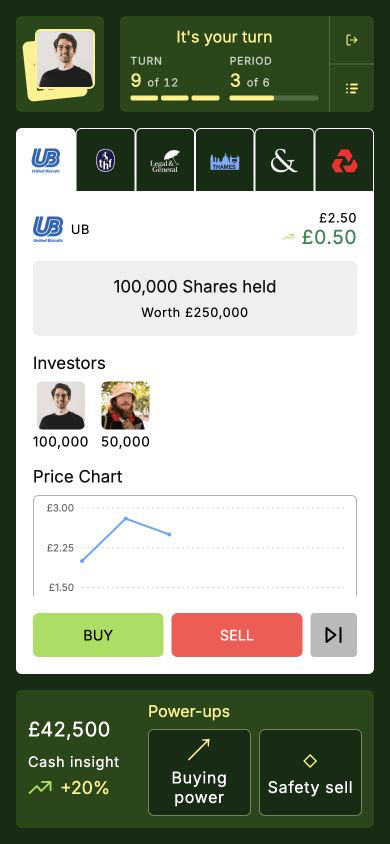
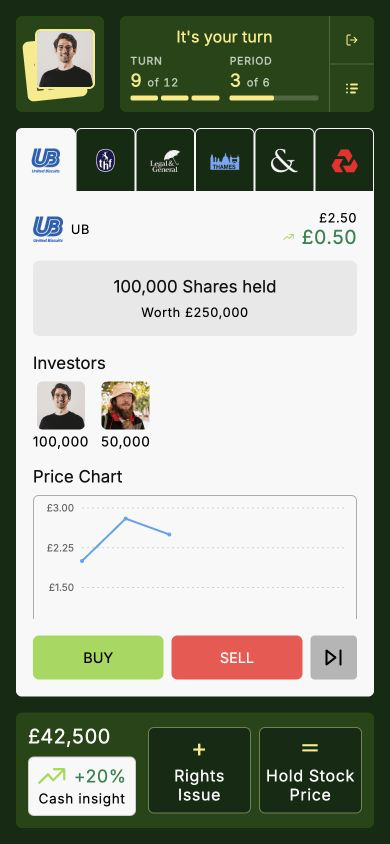
Style cash as a private insight and reference documented special cards

Changed region(s): [[0.0308, 0.7085, 0.9846, 0.9858]]

diff --git a/src/player-dock.css b/src/player-dock.css
@@ -13,11 +13,10 @@
 }
 #player-dock > * { min-width: 0; }
 #player-dock .dock-balance { display: block; margin-bottom: 0.5rem; font-size: 1.5rem; font-weight: 500; line-height: 1.2; font-variant-numeric: tabular-nums; }
-.dock-cash-insight { display: inline-flex; flex-direction: column; gap: 0.25rem; }
-#player-dock .dock-cash-insight > span { font-size: 1rem; }
-.dock-cash-insight strong { display: flex; align-items: center; gap: 0.5rem; font-size: 1.25rem; font-weight: 500; color: #fff284; }
-.dock-cash-insight img { width: 1.5rem; height: 1rem; object-fit: contain; }
-#player-dock .dock-powers h2 { margin: 0 0 0.5rem; font-size: 1.2rem; font-weight: 500; color: #fff284; }
+.dock-cash-insight { padding: 0.5rem; gap: 0.25rem; max-width: 9rem; }
+#player-dock .dock-cash-insight .total-insight { font-size: 1.2rem; line-height: 1.2; }
+#player-dock .dock-cash-insight .total-insight span { font-size: inherit; }
+#player-dock .dock-cash-insight p { font-size: 1rem; margin: 0; }
 .dock-power-cards { display: grid; grid-template-columns: repeat(2, minmax(0, 1fr)); gap: 1rem; }
 .dock-power-card { display: flex; align-items: center; gap: 1rem; min-height: 4.5rem; padding: 0.75rem 1rem; border: 1px solid #70845b; border-radius: 0.375rem; background: #0f2c12; color: white; text-align: left; }
 .dock-power-card:hover { background: #304f24; border-color: #fff284; }
@@ -35,9 +34,8 @@
 @media (max-width: 575.98px) {
     #player-dock { grid-template-columns: 6.75rem minmax(0, 1fr); gap: 0.75rem; padding: 0.75rem !important; padding-bottom: max(0.75rem, env(safe-area-inset-bottom)) !important; }
     #player-dock .dock-balance { font-size: 1.25rem; }
-    #player-dock .dock-cash-insight > span { font-size: 0.9rem; }
-    .dock-cash-insight strong { font-size: 1.1rem; }
-    #player-dock .dock-powers h2 { font-size: 1rem; }
+    #player-dock .dock-cash-insight p { font-size: 0.85rem; }
+    #player-dock .dock-cash-insight .total-insight { font-size: 1.1rem; }
     .dock-power-cards { gap: 0.5rem; }
     .dock-power-card { flex-direction: column; justify-content: center; gap: 0.4rem; padding: 0.5rem 0.35rem; min-height: 5rem; text-align: center; }
     #player-dock .dock-power-icon { font-size: 1.5rem; }
@@ -47,9 +45,7 @@
 @media (max-height: 500px) {
     #player-dock { padding: 0.5rem 0.75rem !important; }
     #player-dock .dock-balance { margin-bottom: 0.25rem; }
-    .dock-cash-insight { flex-direction: row; align-items: center; gap: 0.5rem; }
-    #player-dock .dock-cash-insight > span { font-size: 0.85rem; }
-    .dock-cash-insight strong { font-size: 1rem; }
+    .dock-cash-insight { padding: 0.35rem; }
     .dock-power-card { min-height: 3rem; padding-block: 0.4rem; }
 }
 /* Details scroll within the middle panel while the dock remains in view. */

diff --git a/src/PlayerDock.tsx b/src/PlayerDock.tsx
@@ -2,9 +2,10 @@ import { Modal, money } from "./shared";
 import type { Board } from "./types";
 import "./player-dock.css";
 
+// Names and effects follow BOARD_GAME_DIFFERENCES_CURRENT.md.
 const powerUps = [
-    { name: "Buying power", kind: "buy", icon: "↗", effect: "+10% shares", description: "Get 10% extra shares on your next purchase. A little more stock for the same cash.", timing: "Use before buying" },
-    { name: "Safety sell", kind: "sell", icon: "◇", effect: "Price protection", description: "Sell at the period’s opening price if the current price is lower. Protect one sale from a falling market.", timing: "Use before selling" },
+    { name: "Rights Issue", kind: "rights", icon: "+", effect: "50% extra shares", description: "Choose a company. All holders receive 50% extra shares, rounded down.", timing: "Applies to all holders of the chosen company" },
+    { name: "Hold Stock Price", kind: "hold", icon: "＝", effect: "Freeze a company’s price", description: "Choose one company to suspend. Its share price stays unchanged when this period settles.", timing: "Choose a company before period-end settlement" },
 ];
 
 /** POC only: power-ups and cash insights are examples, never trading mutations. */
@@ -17,17 +18,15 @@ export function PlayerDock({ board }: { board: Board })
                     £
                     {money(board.player.cash)}
                 </strong>
-                <div className="dock-cash-insight">
-                    <span>Cash insight</span>
-                    <strong>
-                        <img src="/static/imgs/icons/stock_up.svg" alt="Cash rising" />
-                        {" "}
-                        +20%
-                    </strong>
+                <div className="dock-cash-insight card bg-white text-black text-center">
+                    <div className="total-insight text-success d-flex justify-content-center align-items-center">
+                        <img className="pe-2" height={16} src="/static/imgs/icons/stock_up.svg" alt="Cash rising" />
+                        <span>+20%</span>
+                    </div>
+                    <p>Cash insight</p>
                 </div>
             </div>
             <div className="dock-powers">
-                <h2>Power-ups</h2>
                 <div className="dock-power-cards">
                     {powerUps.map((power) => (
                         <button key={power.kind} type="button" className={`dock-power-card dock-power-${power.kind}`} data-bs-toggle="modal" data-bs-target={`#power-preview-${power.kind}`} aria-label={`Preview ${power.name}: ${power.effect}`}>

diff --git a/experiments/README.md b/experiments/README.md
@@ -8,7 +8,7 @@ Stock and portfolio details scroll within the shorter middle panel. The dock
 and trade buttons stay visible. The desktop feed ends above the dock.
 
 Cash comes from `board.player.cash`. Power-ups and cash insights are static dummy
-data. The cash insight is a single sample +20% value. Power-up dialogs explain that they are previews. Opening a power-up explains its
+data. The cash insight is a single sample +20% value in the same white card and green movement style as private stock insights. Power-up dialogs explain that they are previews. Opening a power-up explains its
 proposed ability; nothing is activated, persisted, or applied to a trade. No
 backend/schema changes or random assignment logic are included.
 
@@ -40,3 +40,13 @@ unchanged and not part of this feature commit.
 - Both power-up previews open and dismiss. Portfolio scrolling leaves the dock
   stationary. Final browser check reports no warnings/errors or missing images.
 - Screenshots are saved as PNG files in `../screenshots/`.
+
+## Dummy special-card references
+
+The two example cards follow `BOARD_GAME_DIFFERENCES_CURRENT.md`:
+
+- **Rights Issue:** chosen company grants 50% extra shares to all holders, rounded down.
+- **Hold Stock Price** (**Share Suspended** in the board-game comparison): suppress one company's end-of-period price movement.
+
+The document also lists Government Loan Stock, Debenture, and Option. The dock
+shows two example cards rather than suggesting every special card is owned.
